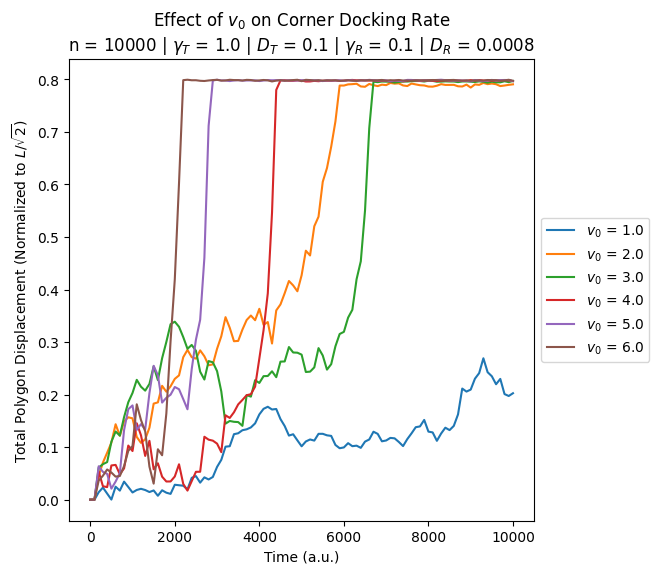
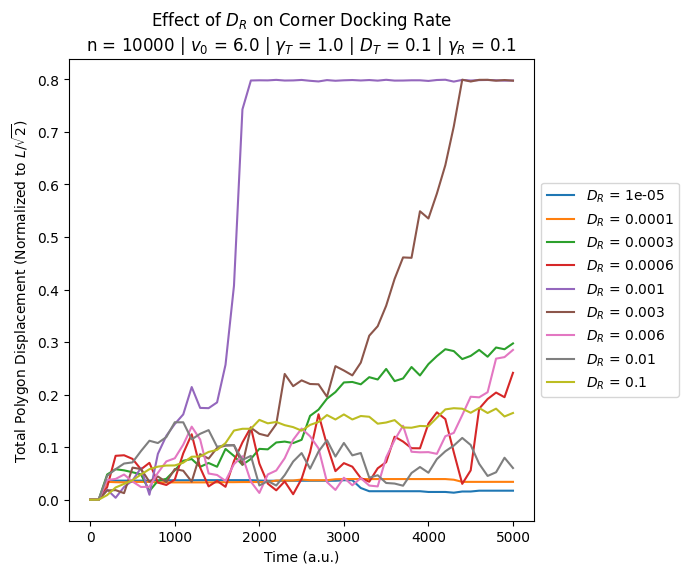
dr_scan_with_square

diff --git a/src/run_sim.py b/src/run_sim.py
@@ -235,7 +235,9 @@ def run_sim(
     if return_history:
         return (jnp.array(r_history), jnp.array(theta_history),poly_vertex_history,poly_com_history, poly_angle_history, r_hell)
     else:
-        return r, theta, [poly.get_vertices(centroids[i],angles[i]) for i,poly in enumerate(polygons)]
+        return r, theta, [sub_poly.get_vertices(centroids[i] + sub_com,angles[i]) for i,poly in enumerate(polygons) for sub_poly,sub_com in zip(poly.polygon_list,poly.get_relative_centroids(angles[i]))]
+        
+        # return r, theta, [poly.get_vertices(centroids[i],angles[i]) for i,poly in enumerate(polygons)]
 
 def do_many_sim_steps(
         rand_key: jnp.ndarray, 
@@ -383,36 +385,36 @@ def main():
     # glu2, c2 = glue_polygons_together([t3,t4])
 
 
-    triangle = jnp.array([[-10.,-10.],[10.,-10.],[-10.,10.]])
+    square = jnp.array([[-10.,-10.],[10.,-10.],[10.,10.],[-10.,10.]])
     r_0, theta_0 = get_initial_fill_shape(
-        "single_triangle",
-        [triangle],
+        "square",
+        [square],
         DEFAULT_BOX_SIZE,
         overwrite_cache=True
     )
-    glu, c = glue_polygons_together([triangle])
+    glu, c = glue_polygons_together([square])
     
     angle_hist_fig, angle_hist_ax = plt.subplots(figsize=(6,6))
     com_hist_fig, com_hist_ax = plt.subplots(figsize=(6,6))
 
-    for tumble_rate in [1e-6,1e-5,1e-4,1e-3,1e-2,1e-1,1e0,1e1,1e2]:
+    for rotation_diffusion in [1e-5,1e-4,3e-4,6e-4,1e-3,3e-3,6e-3,1e-2,1e-1]:
         sim_params = {
             "dt": 0.01,
             "num_particles": 10000,
-            "total_time": 1000.,
+            "total_time": 5000.,
             "do_animation": True,
             "return_history": True,
-            "tumble_rate": tumble_rate,
+            "rotation_diffusion":rotation_diffusion,
             "use_jit": True,
-            "timesteps_per_frame": 1000
+            "timesteps_per_frame": 10000
             }
 
         r_history, theta_history, poly_history, com_history, angle_history, _ = run_sim(r_0, theta_0, [glu], [c], sim_params, hell=False)
 
         times = jnp.linspace(0,sim_params["total_time"],len(r_history))
 
-        param_name = r"$\lambda$"
-        scan_param_title = param_name + f" = {sim_params['tumble_rate']}"
+        param_name = r"$D_R$"
+        scan_param_title = param_name + f" = {sim_params['rotation_diffusion']}"
 
         angle_hist_ax.set_title(f"Effect of {param_name} on polygon rotation\n"+get_parameter_report(param_name))
         angle_hist_ax.set_xlabel("Time (a.u.)")

diff --git a/src/visualization.py b/src/visualization.py
@@ -95,7 +95,7 @@ def animate_particles(
     images[0].save(gif_filename, save_all=True, append_images=images[1:], loop=0, duration=1000/DEFAULT_GIF_FPS)
 
 def get_parameter_report(scan_param):
-    excluded_params = [3,6]
+    excluded_params = [6,7]
     param_names = ["n",r"$v_0$",r"$\gamma_T$",r"$D_T$",r"$\gamma_R$",r"$D_R$",r"$\omega$",r"$\lambda$"]
     excluded_params.append(param_names.index(scan_param))
     param_vals = [

diff --git a/src/constants.py b/src/constants.py
@@ -5,7 +5,7 @@ DEFAULT_DT = 0.01
 DEFAULT_TOTAL_TIME = 1000.
 DEFAULT_BOX_SIZE = 100.
 DEFAULT_NUM_PARTICLES = 10000
-DEFAULT_V0 = 4.
+DEFAULT_V0 = 6.
 DEFAULT_TRANSLATION_GAMMA = 1.
 DEFAULT_TRANSLATION_DIFFUSION = 0.1
 DEFAULT_ROTATION_GAMMA = 0.1
